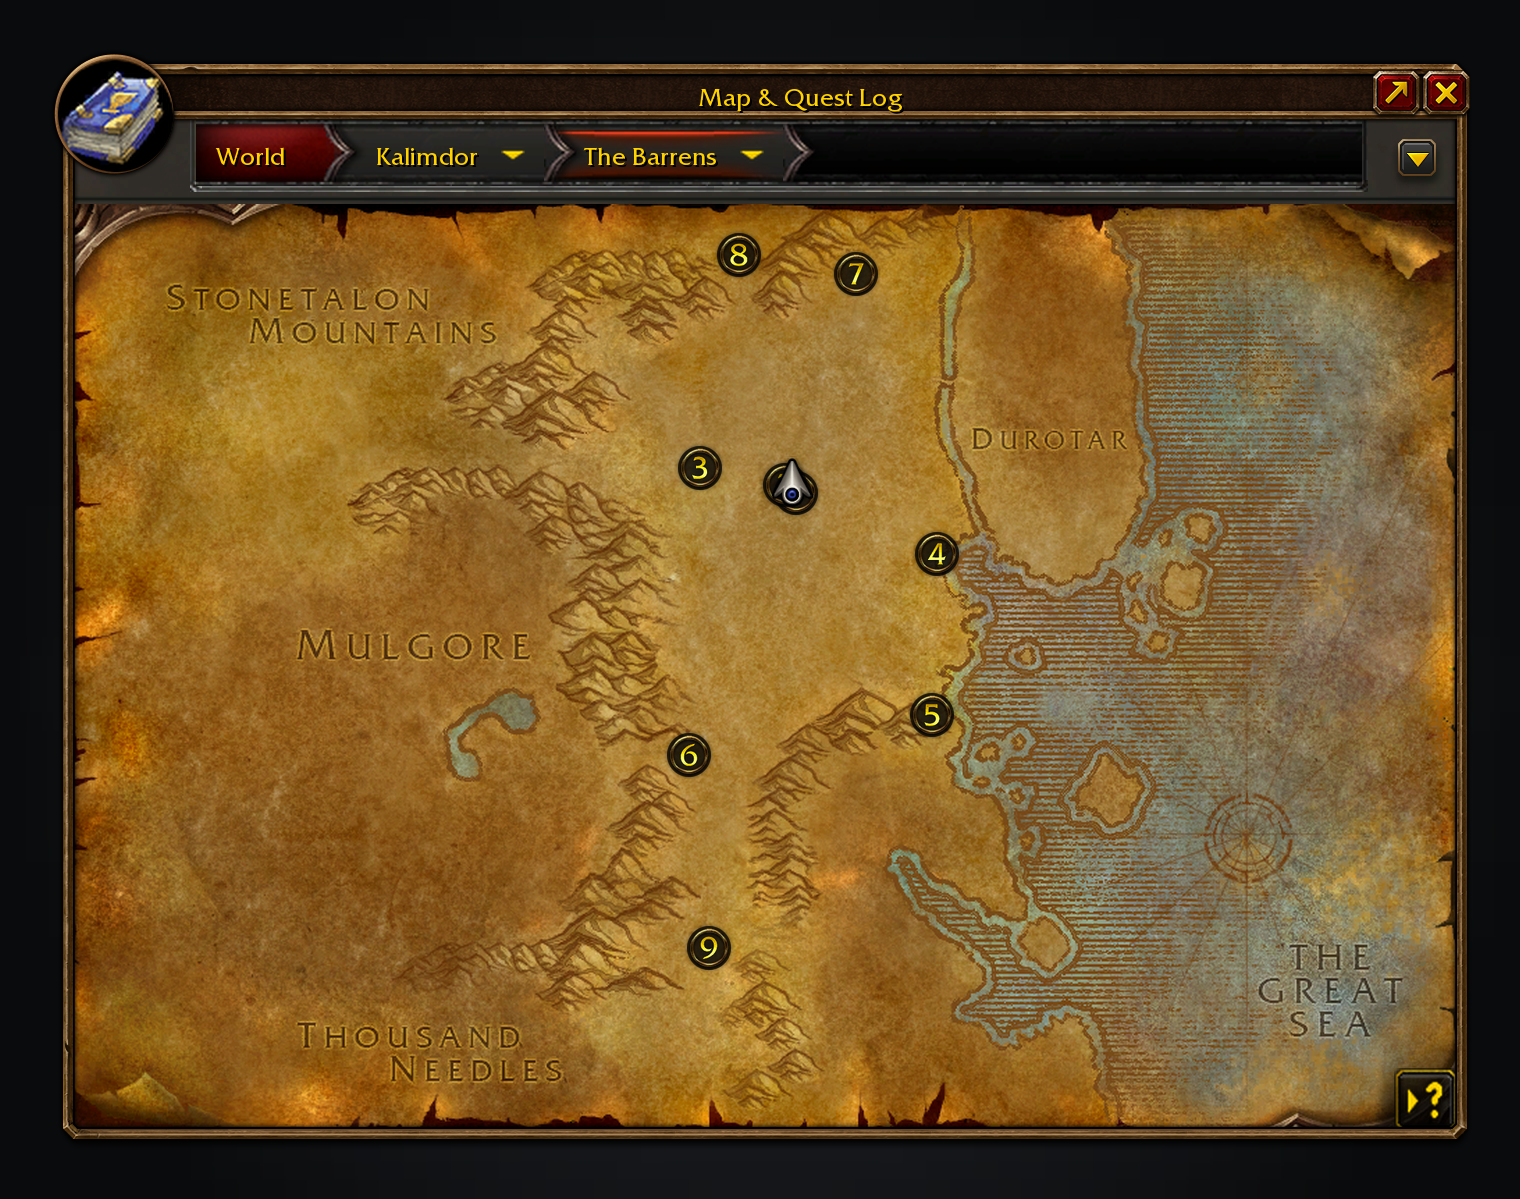
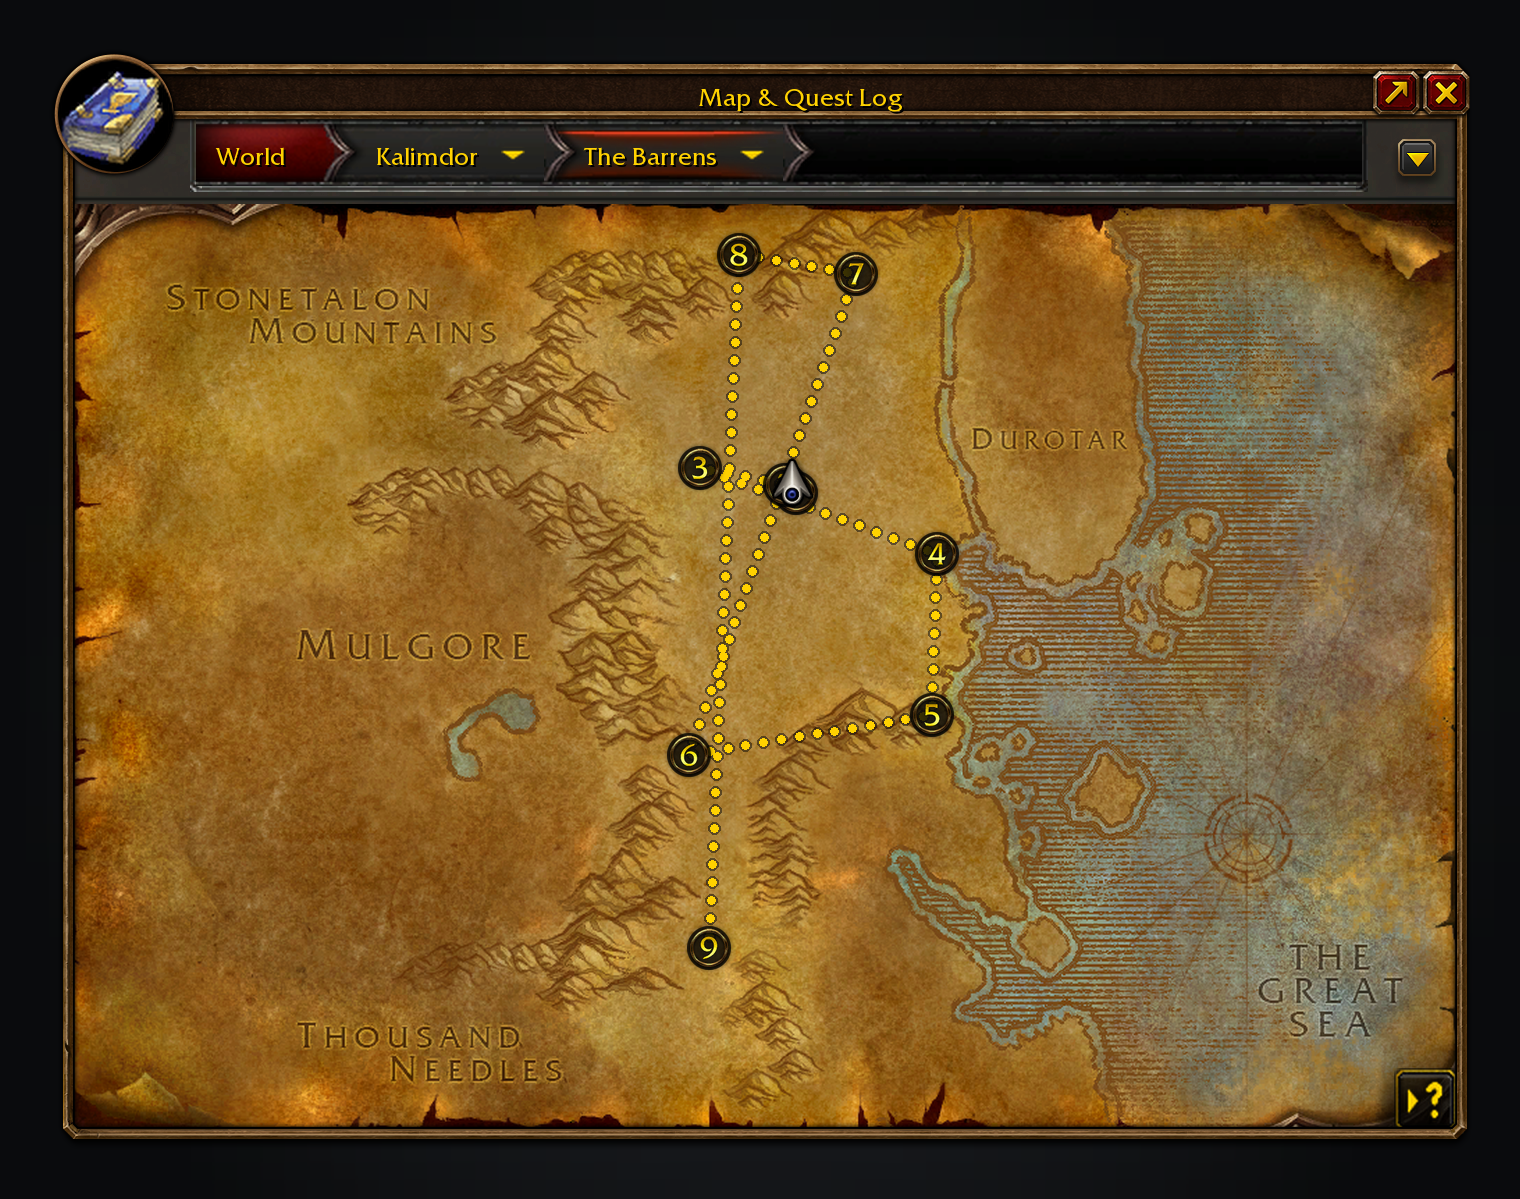
tools(screenshots): Shortest Path route geometry from Path.FindSync
The map scene shows the route as players see it once AGF hands it to
Shortest Path, so its line must be SPF's own, not a straight guess. The
current leg is Path.FindSync from the player to stop 1, run by LuaJIT in an
extract of the pinned SPF sha (git archive from a local clone, else
GitHub's tarball, cached in tools/.cache/); later stops are Route.lua's
straight preview walk. Breadcrumbs and the numbered stop pins follow
Route.lua and Map.xml.

Claude-Session: https://claude.ai/code/session_01Tw2pFx5ck2PCNi8HRu6CA1

diff --git a/tools/screenshots.py b/tools/screenshots.py
@@ -768,6 +768,180 @@ def quest_log(ui, data, rects, scene, pins=()):
     return canvas, frame
 
 
+# ------------------------------------------------------------------------------ Shortest Path's route (map scene)
+
+# The Shortest Path Forever build the map scene draws (the same sha tests/contract_spec.lua pins); its geometry is
+# SPF's own Path.FindSync, run by LuaJIT in an extracted copy (docs/plan.md §1.3).
+SPF_SHA = "39d9a986d423557ab13039b45732d0c9dd12bf02"
+SPF_TARBALL = f"https://codeload.github.com/cjber/shortest-path-forever/tar.gz/{SPF_SHA}"
+SPF_CACHE = ROOT / "tools/.cache" / f"spf-{SPF_SHA}"
+# Route.lua: THICKNESS 2 over UNDER_THICKNESS 4 at UNDER_ALPHA .5; walks are DOT 4 breadcrumbs every SPACING 9, each
+# over a dark dot RIM 1 wider; the walk colour is NORMAL_FONT_COLOR.
+SPF_DOT, SPF_RIM, SPF_SPACING, SPF_UNDER = 4, 1, 9, (0.04, 0.04, 0.04, 0.5)
+
+SPF_PROGRAM = r"""
+local ns = {}
+for _, name in ipairs({ "Data/Routes", "Data/Transports", "Data/Portals", "Data/Taxi", "Model", "Path", "Planner" }) do
+	assert(loadfile(name .. ".lua"))("ShortestPathForever", ns)
+end
+local walks = {}
+for index, leg in ipairs(LEGS) do
+	assert(loadfile("tools/load_nav.lua"))(leg.map)
+	local points, why = ns.Path.FindSync(leg.map, leg.from, leg.to)
+	assert(points, tostring(why))
+	local out = {}
+	for i, point in ipairs(points) do
+		out[i] = string.format("[%.3f,%.3f]", point.x, point.y)
+	end
+	walks[index] = "[" .. table.concat(out, ",") .. "]"
+end
+print("[" .. table.concat(walks, ",") .. "]")
+"""
+
+
+def spf_sources():
+    """SPF_CACHE, extracted from a local clone ($SPF, else a sibling of this checkout or of its main worktree) with
+    `git archive`, else from GitHub's tarball of the sha."""
+    if (SPF_CACHE / "Path.lua").is_file():
+        return SPF_CACHE
+    import io
+    import tarfile
+    import urllib.request
+
+    common = subprocess.run(["git", "rev-parse", "--git-common-dir"], cwd=ROOT, capture_output=True, text=True)
+    candidates = [os.environ.get("SPF"), ROOT.parent / "shortest-path-forever"]
+    if common.returncode == 0:
+        candidates.append((ROOT / common.stdout.strip()).resolve().parent.parent / "shortest-path-forever")
+    archive = None
+    for candidate in filter(None, candidates):
+        result = subprocess.run(["git", "-C", str(candidate), "archive", SPF_SHA], capture_output=True)
+        if result.returncode == 0:
+            archive, strip = result.stdout, 0
+            break
+    if archive is None:
+        with urllib.request.urlopen(SPF_TARBALL, timeout=300) as response:
+            archive, strip = response.read(), 1
+    staging = SPF_CACHE.with_name(SPF_CACHE.name + ".tmp")
+    with tarfile.open(fileobj=io.BytesIO(archive)) as tar:
+        members = []
+        for member in tar.getmembers():
+            parts = Path(member.name).parts[strip:]
+            if parts:
+                member.name = str(Path(*parts))
+                members.append(member)
+        tar.extractall(staging, members, filter="data")
+    staging.rename(SPF_CACHE)
+    return SPF_CACHE
+
+
+def assignment(ui, map_id):
+    """The UiMapAssignment row placing a uiMap on its world map, as SPF's own screenshots.py picks it."""
+    rows = [
+        r
+        for r in ui.table("UiMapAssignment").values()
+        if r["UiMapID"] == str(map_id) and r["WMODoodadPlacementID"] == "0"
+    ]
+    return min(rows, key=lambda row: (int(row["OrderIndex"]), int(row["ID"])))
+
+
+def world_point(ui, map_id, x, y):
+    """A uiMap position in world coordinates (x north, y west), inverting SPF's projection; ns.WorldPoint needs the
+    client's C_Map."""
+    r = assignment(ui, map_id)
+    nx = (x - float(r["UiMin_0"])) / (float(r["UiMax_0"]) - float(r["UiMin_0"]))
+    ny = (y - float(r["UiMin_1"])) / (float(r["UiMax_1"]) - float(r["UiMin_1"]))
+    west = float(r["Region_4"]) - nx * (float(r["Region_4"]) - float(r["Region_1"]))
+    north = float(r["Region_3"]) - ny * (float(r["Region_3"]) - float(r["Region_0"]))
+    return {"map": int(r["MapID"]), "x": north, "y": west}
+
+
+def map_position(ui, map_id, point):
+    r = assignment(ui, map_id)
+    nx = (float(r["Region_4"]) - point[1]) / (float(r["Region_4"]) - float(r["Region_1"]))
+    ny = (float(r["Region_3"]) - point[0]) / (float(r["Region_3"]) - float(r["Region_0"]))
+    return tuple(
+        float(r[f"UiMin_{i}"]) + n * (float(r[f"UiMax_{i}"]) - float(r[f"UiMin_{i}"])) for i, n in enumerate((nx, ny))
+    )
+
+
+def spf_walks(ui, legs):
+    """Path.FindSync's points for each (uiMap, from, to) leg, in world coordinates."""
+    root = spf_sources()
+    entries = []
+    for map_id, a, b in legs:
+        start, goal = world_point(ui, map_id, *a), world_point(ui, map_id, *b)
+        assert start["map"] == goal["map"]
+        entries.append(
+            f"{{ map = {start['map']}, from = {{ x = {start['x']:.4f}, y = {start['y']:.4f} }}, "
+            f"to = {{ x = {goal['x']:.4f}, y = {goal['y']:.4f} }} }}"
+        )
+    program = "local LEGS = { " + ", ".join(entries) + " }\n" + SPF_PROGRAM
+    result = subprocess.run(["luajit", "-"], input=program, text=True, cwd=root, capture_output=True)
+    if result.returncode:
+        sys.exit("Shortest Path's Path.FindSync failed:\n" + result.stderr)
+    return json.loads(result.stdout)
+
+
+def breadcrumbs(canvas, rects, lines):
+    """Route.lua's walk: breadcrumbs every SPF_SPACING along each polyline (normalised map points), the distance
+    carried across its bends, each dot over a larger dark rim, every rim beneath every dot (ARTWORK -1)."""
+    import math
+
+    dots = []
+    for line in lines:
+        points = [map_point(rects, x, y) for x, y in line]
+        walked = 0.0
+        for (ax, ay), (bx, by) in zip(points, points[1:], strict=False):
+            length = math.hypot(bx - ax, by - ay)
+            distance = math.ceil(walked / SPF_SPACING) * SPF_SPACING - walked
+            while length and distance <= length:
+                dots.append((ax + (bx - ax) * distance / length, ay + (by - ay) * distance / length))
+                distance += SPF_SPACING
+            walked += length
+    k = canvas.ui.scale
+    for radius, color in ((SPF_DOT / 2 + SPF_RIM, SPF_UNDER), (SPF_DOT / 2, (*wm.NORMAL, 1))):
+        layer = wm.Image.new("RGBA", canvas.image.size)
+        draw = wm.ImageDraw.Draw(layer)
+        for x, y in dots:
+            draw.ellipse(
+                ((x - radius) * k, (y - radius) * k, (x + radius) * k, (y + radius) * k), fill=wm.rgba255(color)
+            )
+        canvas.image.alpha_composite(layer)
+
+
+def goal_pins(canvas, rects, stops):
+    """SPF's numbered stop pins (Map.xml:23, GoalPinMixin:OnAcquired): 26x26, a black .75 disc 22x22 cut round by
+    TempPortraitAlphaMask, the adventureguide-ring over it and services-number-N 22x25 at the centre."""
+    ui = canvas.ui
+    for number, stop in enumerate(stops, 1):
+        cx, cy = map_point(rects, stop["x"], stop["y"])
+        disc = ui.canvas(canvas.width, canvas.height)
+        disc.fill(cx - 11, cy - 11, 22, 22, (0, 0, 0, 0.75))
+        disc.mask(ui.texture("interface/characterframe/tempportraitalphamask.blp"), cx - 11, cy - 11, 22, 22)
+        canvas.paste(disc, 0, 0)
+        canvas.draw(ui.atlas("adventureguide-ring"), cx - 13, cy - 13, 26, 26)
+        canvas.draw(ui.atlas(f"services-number-{number}"), cx - 11, cy - 12.5, 22, 25)
+
+
+def shortest_path(ui, data):
+    """The map while Shortest Path guides the route AGF handed it: the current leg (player to stop 1) walked with
+    Path.FindSync, the later stops joined by the straight preview walk (Route.lua's `preview` path), the numbered
+    stops, and the player."""
+    stops, map_id = data["map"]["stops"], data["panel"]["map"]
+    player = data["map"]["player"]
+    (walk,) = spf_walks(ui, [(map_id, (player["x"], player["y"]), (stops[0]["x"], stops[0]["y"]))])
+    current = [map_position(ui, map_id, point) for point in walk]
+    preview = [(stop["x"], stop["y"]) for stop in stops]
+
+    def on_map(canvas, rects):
+        breadcrumbs(canvas, rects, [current, preview])
+        goal_pins(canvas, rects, stops)
+        draw_player(canvas, rects, player)
+
+    canvas, _ = map_frame(ui, wm.map_art(ui, map_id), False, on_map)
+    return canvas, len(walk)
+
+
 def render(out):
     """Every scene into `out`; returns the written paths."""
     load_wowmock()
@@ -787,12 +961,7 @@ def render(out):
     images["search"] = wm.scene(ui, [(crop(canvas, qx - 3, qy - 30, qw + 3 + 64, qh + 30 + 22), 0, 0)])
 
     art = wm.map_art(ui, data["panel"]["map"])
-
-    def rings(canvas, frame_rects):
-        draw_pins(canvas, frame_rects, data["panel"]["pins"])
-        draw_player(canvas, frame_rects, PLAYER)
-
-    canvas, _ = map_frame(ui, art, False, rings)
+    canvas, _ = shortest_path(ui, data)
     images["map"] = wm.scene(ui, [(canvas, 0, 0)])
 
     hovered = data["tooltip"]["hovered"] - 1
